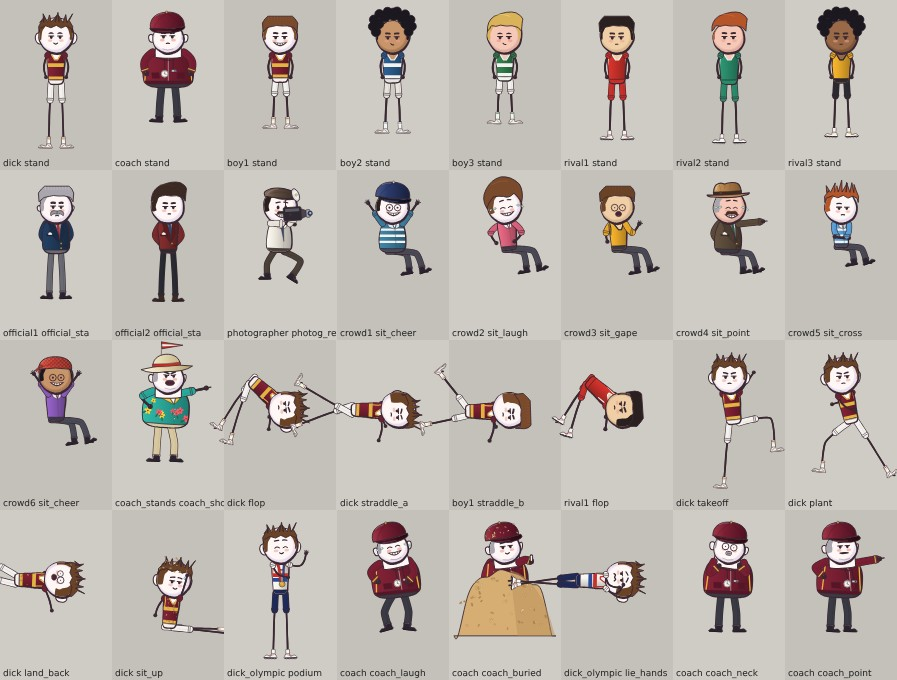
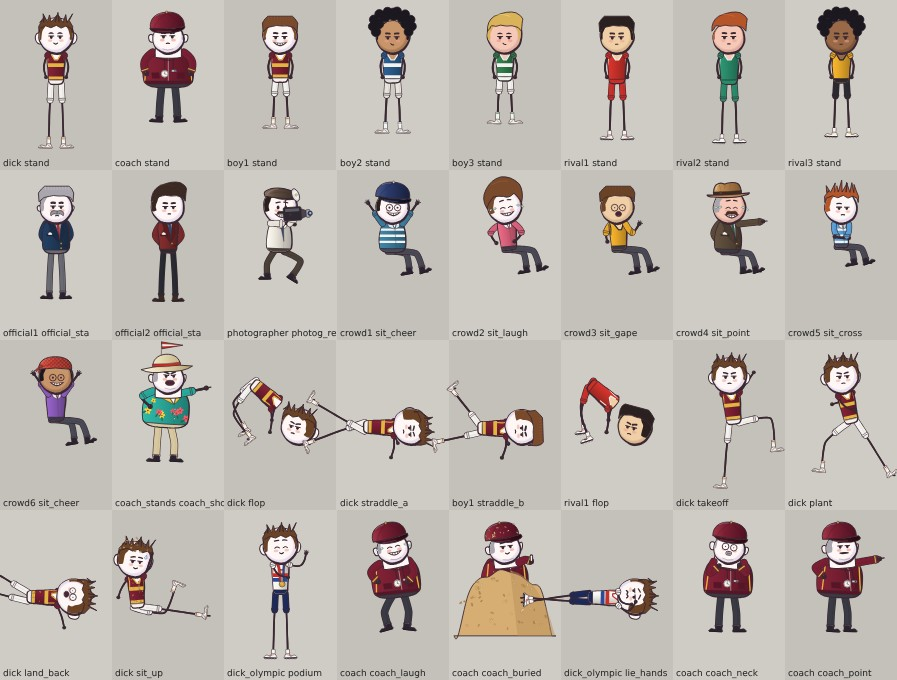
Film 15: cast15 flop arch rework (round 2), set3d15 WIP

diff --git a/film/v3/set3d15/set15.py b/film/v3/set3d15/set15.py
@@ -22,7 +22,7 @@ _B = dict(toon=1.0, form=(0.0, -0.05, 0.22), sun_angle=0.6, exposure=0.0, lift=(
           shade_mix=0.55, crowd_k=1.0, season=0.0, floods=0.0, cx=0.0, cy=0.0)
 _SKY_EVE = [(0.0, '#2a3494'), (0.4, '#5a68c4'), (0.5, '#f2a068'), (0.53, '#e6c0a0'), (0.58, '#a4b8e4'), (0.68, '#4a62c0'), (0.82, '#2a3a9c'), (1.0, '#212a82')]
 LIGHTS = dict(
-    A_GOLDEN=dict(_B, name='A_GOLDEN', loc='A', key=(1.62, 1.16, 0.68), key_dir=kdir(-60, 24), sun_elev=24, sun_angle=0.9, shade=(0.105, 0.10, 0.31), shade_tint=(0.10, 0.095, 0.33), season=1.0,
+    A_GOLDEN=dict(_B, name='A_GOLDEN', loc='A', key=(1.62, 1.16, 0.68), key_dir=kdir(-60, 28), sun_elev=28, sun_angle=0.9, shade=(0.105, 0.10, 0.31), shade_tint=(0.10, 0.095, 0.33), season=1.0,
                   sky=[(0.0, '#7a70e0'), (0.40, '#f2b47a'), (0.5, '#f8cf96'), (0.56, '#d8d0c8'), (0.64, '#8aa0ec'), (0.8, '#5c6ee6'), (1.0, '#4a58d8')], sky_k=1.25, glow=('#ffa860', 0.35, 0.45),
                   hills=[(300, 6, 14, '#a08ac8'), (340, 20, 28, '#8f90d0')], hill_k=0.95),
     A_DAY=dict(_B, name='A_DAY', loc='A', key=(1.72, 1.56, 1.26), key_dir=kdir(-38, 44), sun_elev=44, shade=(0.115, 0.115, 0.34), shade_tint=(0.105, 0.105, 0.35), season=0.0,
@@ -356,3 +356,52 @@ def clear_keys():
     for m in bpy.data.materials:
         if m.node_tree and m.node_tree.animation_data and m.node_tree.animation_data.action: m.node_tree.animation_data.action = None
     for o in STATE.get('stand_bulbs', []): o.hide_render = True
+
+# ============================================================================= placeholder actor cards (stills and tests only)
+def _poly_round_rect(w, h, r, n=6):
+    pts = []
+    for (cx, cy, a0) in ((w / 2 - r, h - r, 0), (-w / 2 + r, h - r, 90), (-w / 2 + r, r, 180), (w / 2 - r, r, 270)):
+        for i in range(n + 1): a = math.radians(a0 + 90 * i / n); pts.append((cx + r * math.cos(a), cy + r * math.sin(a)))
+    return pts
+def _fan(pts):
+    n = len(pts); cx = sum(p[0] for p in pts) / n; cy = sum(p[1] for p in pts) / n
+    V = [(cx, cy)] + pts; Fc = [(0, 1 + i, 1 + (i + 1) % n) for i in range(n)]; return V, Fc
+
+def placeholder_actor(role, mark, face_to=None, name=None, tint=0.58):
+    """Grey rounded silhouette card at real scale (HEIGHT[role] D tall), feet at `mark` (D), turned to face `face_to`. Stills and tests only."""
+    h = HEIGHT.get(role, 2.9); name = name or 'actor_' + role
+    bw = 0.95 if role != 'dick' else 0.8
+    body = _poly_round_rect(bw, h * 0.74, bw * 0.4); hr = 0.30 if role != 'dick' else 0.27
+    hc = (0.0, h - hr); head = [(hc[0] + hr * math.cos(2 * math.pi * i / 16), hc[1] + hr * math.sin(2 * math.pi * i / 16)) for i in range(16)]
+    V3 = []; Fs = []
+    for pts, z0 in ((body, 0.0), (head, 0.0)):
+        V, Fc = _fan(pts); o = len(V3); V3 += [(x, 0.0, y + z0) for x, y in V]; Fs += [tuple(o + i for i in f) for f in Fc]
+    me = bpy.data.meshes.new(name); me.from_pydata(V3, [], Fs); me.update()
+    m = bpy.data.materials.new(name + '_m'); m.use_nodes = True; nt = m.node_tree; nt.nodes.clear(); N = nt.nodes.new; Lk = nt.links.new
+    out = N('ShaderNodeOutputMaterial'); em = N('ShaderNodeEmission'); lp = N('ShaderNodeLightPath')
+    em.inputs['Color'].default_value = (tint, tint, tint * 1.04, 1.0); Lk(lp.outputs['Is Camera Ray'], em.inputs['Strength']); Lk(em.outputs[0], out.inputs['Surface'])
+    me.materials.append(m); ob = bpy.data.objects.new(name, me); bpy.context.scene.collection.objects.link(ob); ob.location = mark; T.no_bounce(ob)
+    if face_to is not None:
+        d = Vector(face_to) - Vector(mark); ob.rotation_euler = (0, 0, math.atan2(d.x, -d.y))
+    return ob
+
+def stage_placeholders(n, cam_loc):
+    T._clear_actors(); out = []
+    import set15_shots as SH
+    for i, (role, p) in enumerate(SH.staging(n)): out.append(placeholder_actor(role, p, face_to=cam_loc, name='actor_%s_%d' % (role, i)))
+    return out
+
+def head_pixels(n, frame=None):
+    """[(role, chin_y_px, head_top_y_px)] at 720x1280 for the placeholders of shot n at the current frame (caption rule: heads above y 880)."""
+    from bpy_extras.object_utils import world_to_camera_view
+    import set15_shots as SH
+    sc = bpy.context.scene; cam = sc.camera; out = []
+    for role, p in SH.staging(n):
+        h = HEIGHT.get(role, 2.9); top = Vector(p) + Vector((0, 0, h)); chin = Vector(p) + Vector((0, 0, h - 0.6))
+        a = world_to_camera_view(sc, cam, top); b = world_to_camera_view(sc, cam, chin); out.append((role, round((1 - b.y) * 1280), round((1 - a.y) * 1280)))
+    return out
+
+try:
+    import set15_shots   # noqa: F401  (fills SHOTS)
+except ImportError:
+    pass

diff --git a/film/v3/cast15/cast15.py b/film/v3/cast15/cast15.py
@@ -732,7 +732,7 @@ def _std_canvas(h):
 
 
 CANVAS15 = {}                  # filled in register() from the measured heights
-CANVAS15_WIDE = (-4.25, -4.5, 4.25, 3.0)        # lying / bridge / straddle / sit / airborne poses (any member); place these by anchors, not by the soles
+CANVAS15_WIDE = (-4.25, -4.5, 4.25, 4.0)        # lying / bridge / straddle / sit / airborne poses (any member); place these by anchors, not by the soles
 
 
 # ============================================================================= pose keys, skin, ears, jaw, mound
@@ -1038,24 +1038,33 @@ def _p_flop_rise(c):
              leg_l=(104, 1.0, 0.3), leg_r=(62, 0.82, 1.0))
 
 
-def _p_flop_head(c):
-    return J(c, lean=96, yaw=-0.55, roll=56, expr="determined", arm_r=(100, 0.95, 0.3), arm_l=(128, 0.95, 0.3, BACK),
-             leg_l=(118, 1.0, -0.3), leg_r=(105, 1.0, -0.2))
+def _arch(c, lean, hdx, hdy, roll, ang, depth, kn=-1, spread=12, **kw):
+    """the flop family: torso tilted up to the hips (apex), head hung below the shoulders (hdx2 / hdy2 move the torso away from the
+    head), face turned toward the feet; thighs go down and out, shins hang (knees bent, kn -1 = knees toward the approach side).
+    depth = how far the feet hang below the hips (D), ang = thigh direction (90 = straight down, 180 = straight back)."""
+    L = P.CAST[c]["leg"]
+    r = min(1.05, depth / (L * max(0.2, math.sin(math.radians(ang)))))
+    p = J(c, lean=lean, yaw=-0.9, roll=roll, hdx=hdx, hdy=hdy, expr="determined", arm_r=(92, 0.95, 0.3), arm_l=(110, 0.95, 0.3, BACK),
+          leg_l=(ang, r, kn), leg_r=(ang - spread, r, kn))
+    p.update(kw)
+    return p
 
 
-def _p_flop_back(c):
-    return J(c, lean=116, yaw=-0.8, roll=72, expr="determined", arm_r=(95, 0.95, 0.3), arm_l=(120, 0.95, 0.3, BACK),
-             leg_l=(122, 1.0, -0.5), leg_r=(108, 1.0, -0.4))
+def _p_flop_head(c):      # head and shoulders already past the bar, hips rising, legs still trailing nearly straight
+    return _arch(c, 106, 0.30, 0.55, 12, 122, 1.8, -0.5, 10)
 
 
-def _p_flop(c):
-    return J(c, lean=132, yaw=-0.9, roll=86, expr="determined", arm_r=(90, 0.95, 0.3), arm_l=(112, 0.95, 0.3, BACK),
-             leg_l=(125, 0.98, -0.6), leg_r=(108, 0.98, -0.5))
+def _p_flop_back(c):      # the arch almost complete, knees starting to bend
+    return _arch(c, 122, 0.30, 0.48, 14, 110, 1.7, -0.7, 10)
 
 
-def _p_flop_flick(c):
-    return J(c, lean=108, yaw=-0.9, roll=82, expr="happy", arm_r=(92, 0.95, 0.3), arm_l=(112, 0.95, 0.3, BACK),
-             leg_l=(-128, 1.05, 0.0), leg_r=(-112, 1.05, 0.0))
+def _p_flop(c):           # THE FLOP: a symmetric upside-down U, belly up
+    return _arch(c, 131, 0.30, 0.42, 15, 100, 1.5, -1, 12)
+
+
+def _p_flop_flick(c):     # legs kicked up and over: jack-knife into an L
+    return J(c, lean=118, yaw=-0.9, roll=14, hdx=0.30, hdy=0.50, expr="happy", arm_r=(94, 0.95, 0.3), arm_l=(112, 0.95, 0.3, BACK),
+             leg_l=(-108, 1.05, 0.0), leg_r=(-92, 1.05, 0.0))
 
 
 def _p_land_back(c):
@@ -1069,8 +1078,8 @@ def _p_lie_back(c):
 
 
 def _p_sit_up(c):
-    return J(c, lean=6, yaw=0.6, roll=8, expr="worried", mouth="smile", pitch=0.3, arm_r=(-72, 1.0, -0.5, TOP), arm_l=(118, 0.8, 0.2, BACK),
-             leg_r=(6, 1.0, 0.3), leg_l=(2, 1.0, 0.3), sawdust=1.0, fx=["sweat"])
+    return J(c, lean=-4, yaw=0.55, roll=7, expr="worried", mouth="smile", pitch=0.35, arm_r=(-70, 1.0, -0.6, TOP), arm_l=(118, 0.85, 0.2, BACK),
+             leg_r=(8, 1.0, 0.3), leg_l=(-30, 0.78, -1.0), sawdust=1.0, fx=["sweat"])
 
 
 def _p_straddle_a(c):
@@ -1203,9 +1212,9 @@ def _p_coach_sigh(c):
     return J(c, lean=7, yaw=0.35, pitch=0.8, hdy=0.04, expr="sad", mouth="frown", arm_r=dict(preset="chin"), arm_l=(98, 0.75, 0.3, BACK))
 
 
-def _p_coach_clumsy_flop(c):
-    return J(c, lean=102, yaw=-0.7, roll=48, expr="shocked", mouth="o", arm_r=(-40, 1.05, -0.5), arm_l=(150, 1.05, 0.5, BACK),
-             leg_r=(-62, 1.0, 1.0), leg_l=(160, 1.0, -1.0))
+def _p_coach_clumsy_flop(c):   # a sagging, badly arched backwards flop: low hips, flailing arms, legs everywhere
+    return J(c, lean=118, yaw=-0.8, roll=30, hdx=0.30, hdy=0.30, expr="shocked", mouth="o", arm_r=(-50, 1.05, -0.5), arm_l=(-155, 1.05, 0.5, BACK),
+             leg_r=(-40, 1.0, -0.3), leg_l=(112, 0.80, -1.0))
 
 
 def _p_coach_buried(c):

diff --git a/film/v3/set3d15/set15_a.py b/film/v3/set3d15/set15_a.py
@@ -71,8 +71,8 @@ def build_a(P, M, dress=True):
     S.ring(mb, M['cinder'], CX, CY, 47, 47, 53, 53, 0, 180, 0.012, 1.0)
     for r in (47.0, 52.85): S.ring(mb, M['chalk'], CX, CY, r, r, r + 0.15, r + 0.15, 0, 180, 0.02, 1.0)
     for r in (49.0, 50.9): S.ring(mb, M['chalk'], CX, CY, r, r, r + 0.07, r + 0.07, 0, 180, 0.018, 1.0)
-    S.disc(mb, M['dirt'], (1.4, 1.6), 4.8, 0.008, 40, 6.6)         # worn run-up
-    S.disc(mb, M['dirt'], (6.3, -2.0), 2.4, 0.007, 24, 3.0)
+    S.disc(mb, M['dirt'], (1.4, 2.4), 3.0, 0.008, 40, 4.4)         # worn run-up
+    S.disc(mb, M['dirt'], (6.0, -2.2), 1.5, 0.007, 24, 2.2); S.disc(mb, M['dirt'], (-6.0, 1.8), 1.4, 0.007, 24, 2.4); S.disc(mb, M['dirt'], (8.2, -1.0), 1.1, 0.007, 20, 1.6)
     for (x, y, w) in [(-3.0, 9.8, 14), (-8.0, 3.0, 5), (9.0, 14.0, 9)]:   # lighter mown patches
         mb.box(M['lawn'], (x, y, 0.004), (w, w * 0.5, 0.004), rz=0.2)
     # asphalt road behind the fence with curb
@@ -164,18 +164,21 @@ def build_a(P, M, dress=True):
         PR.car60(mb, M, (x, 28.4 if yw < 1 else 31.7, 0.0), yw, col, two)
     fin(mb)
     # --- gym (brick) closer, and a long school wing; trees in front
-    mb = S.MB('gymA'); gx, gy = 18.0, 47.0
-    mb.box(M['brick'], (gx, gy, 3.8), (52, 12, 7.6)); mb.box(M['trim'], (gx, gy - 6.05, 7.7), (52.4, 0.5, 0.5)); mb.box(M['roofd'], (gx, gy, 7.95), (52.2, 12.2, 0.4))
-    mb.box(M['brick'], (gx - 32, gy - 5, 2.6), (16, 9, 5.2)); mb.box(M['roofd'], (gx - 32, gy - 5, 5.35), (16.4, 9.4, 0.3))
-    for i in range(16):
-        wx = gx - 23 + i * 3.1; mb.box(M['trim'], (wx, gy - 6.06, 4.7), (1.5, 0.12, 1.95)); mb.box(M['glass'] if i % 3 else M['glasslit'], (wx, gy - 6.12, 4.7), (1.3, 0.1, 1.75))
-        mb.box(M['trim'], (wx, gy - 6.1, 1.9), (1.5, 0.1, 1.3)) if i % 4 == 1 else None
-    for dxx in (-4, 6): mb.box(M['dark'], (gx + dxx, gy - 6.08, 1.4), (3.0, 0.12, 2.8)); mb.box(M['trim'], (gx + dxx, gy - 6.12, 2.9), (3.6, 0.2, 0.3))
-    for i in range(4): mb.box(M['glass'], (gx - 38 + i * 3.8, gy - 9.5, 2.7), (1.7, 0.1, 1.5)); mb.box(M['trim'], (gx - 38 + i * 3.8, gy - 9.47, 3.6), (2.0, 0.1, 0.2))
-    mb.box(M['brick'], (gx + 8, gy - 6.5, 9.4), (1.6, 1.6, 3.2)); mb.box(M['trim'], (gx + 8, gy - 6.5, 11.1), (2.0, 2.0, 0.3))     # chimney
+    mb = S.MB('gymA'); gx, gy = 16.0, 45.0; GH = 12.0
+    mb.box(M['brick'], (gx, gy, GH / 2), (56, 12, GH)); mb.box(M['trim'], (gx, gy - 6.05, GH + 0.1), (56.4, 0.5, 0.5)); mb.box(M['roofd'], (gx, gy, GH + 0.35), (56.2, 12.2, 0.4))
+    mb.box(M['trim'], (gx, gy - 6.06, 5.9), (56.2, 0.15, 0.3))
+    mb.box(M['brick'], (gx - 36, gy - 5, 4.2), (16, 9, 8.4)); mb.box(M['roofd'], (gx - 36, gy - 5, 8.55), (16.4, 9.4, 0.3))
+    for i in range(17):
+        wx = gx - 25 + i * 3.1
+        for zz in (3.3, 8.6):
+            mb.box(M['trim'], (wx, gy - 6.06, zz), (1.5, 0.12, 2.1)); mb.box(M['glass'] if (i + int(zz)) % 3 else M['glasslit'], (wx, gy - 6.12, zz), (1.3, 0.1, 1.9))
+    for dxx in (-4, 6): mb.box(M['dark'], (gx + dxx, gy - 6.08, 1.5), (3.0, 0.12, 3.0)); mb.box(M['trim'], (gx + dxx, gy - 6.12, 3.1), (3.6, 0.2, 0.3))
+    for i in range(4):
+        for zz in (2.8, 6.0): mb.box(M['glass'], (gx - 42 + i * 3.8, gy - 9.5, zz), (1.7, 0.1, 1.6)); mb.box(M['trim'], (gx - 42 + i * 3.8, gy - 9.47, zz + 0.95), (2.0, 0.1, 0.2))
+    mb.box(M['brick'], (gx + 10, gy - 6.5, GH + 3.0), (1.8, 1.8, 5.6)); mb.box(M['trim'], (gx + 10, gy - 6.5, GH + 5.9), (2.2, 2.2, 0.3))
     fin(mb)
     mb = S.MB('treesA')
-    for (x0, x1, y0, y1, n, hs) in [(-18, -8, 31, 42, 8, (8, 11)), (-3, 8, 40, 46, 5, (8, 11)), (-60, -20, 30, 46, 22, (8, 11)), (-60, -17, 52, 72, 26, (14, 20)), (32, 70, 28, 60, 40, (12, 20)), (-40, 70, 72, 110, 70, (12, 20))]:
+    for (x0, x1, y0, y1, n, hs) in [(-18, -8, 33, 44, 8, (9, 13)), (-3, 8, 52, 58, 6, (14, 22)), (-60, -20, 34, 50, 22, (10, 16)), (-60, -17, 56, 76, 26, (20, 32)), (28, 70, 30, 60, 40, (16, 28)), (-40, 70, 62, 110, 70, (22, 34)), (4, 28, 52, 60, 10, (18, 26))]:
         for i in range(n): S.pine(mb, M, rr.uniform(x0, x1), rr.uniform(y0, y1), rr.uniform(*hs), 400 + i + int(x0))
     for (x0, x1, y0, y1, n) in [(-20, -2, 34, 40, 8), (20, 50, 32, 38, 10), (-52, -24, 34, 46, 8), (36, 6, 36, 40, 0)]:
         for i in range(n): maple(mb, M, rr.uniform(x0, x1), rr.uniform(y0, y1), rr.uniform(8, 12), 700 + i)

diff --git a/film/v3/cast15/test_cast15.py b/film/v3/cast15/test_cast15.py
@@ -117,8 +117,10 @@ def sec_poses(D=70):
         x0, y0 = cc * cw * D, r * ch * D
         o.append('<rect x="%.0f" y="%.0f" width="%.0f" height="%.0f" fill="%s"/>' % (x0, y0, cw * D, ch * D, BG if (r + cc) % 2 else BG2))
         hx, hy = x0 + cw * D * 0.5, y0 + ch * D * 0.28
-        if n.startswith(("flop", "lie", "land", "straddle", "knock")):
+        if n.startswith(("flop", "lie", "land", "straddle", "knock", "coach_clumsy")):
             hx, hy = x0 + cw * D * 0.62, y0 + ch * D * 0.45
+        elif n.startswith("sit_up") or n == "sit_thumb":
+            hx, hy = x0 + cw * D * 0.3, y0 + ch * D * 0.3
         s, f = _place(c, p, "p%d" % i, D, hx, hy)
         o.append(s)
         a = f["anchors"]
@@ -155,6 +157,29 @@ def sec_compare(D=100):
         o.append(_under(x + 1.1 * D, 8.1 * D, "%s %s" % (c, n if c != "coach" else "coach_clumsy_flop"), 12))
         x += 2.3 * D
     return _write(_svgdoc(W, H, "".join(o)), W, H, "sec_compare")
+
+
+def build_strip(D=90):
+    """flop_strip.jpg: the four flop stages side by side (dick above, rival1 below), bar line at anchors["bar"] of the apex stage."""
+    from PIL import Image
+    stages = ["flop_head", "flop_back", "flop", "flop_flick"]
+    cw, ch = 4.0, 4.2
+    W, H = int(cw * D * 4), int(ch * D * 2)
+    o = ['<rect width="%d" height="%d" fill="%s"/>' % (W, H, BG)]
+    for r, c in enumerate(("dick", "rival1")):
+        fa = P.figure(c, cast15.pose_for("flop", c), "ref")
+        for i, n in enumerate(stages):
+            x0, y0 = i * cw * D, r * ch * D
+            o.append('<rect x="%.0f" y="%.0f" width="%.0f" height="%.0f" fill="%s"/>' % (x0, y0, cw * D, ch * D, BG if (i + r) % 2 else BG2))
+            hx, hy = x0 + cw * D * 0.68, y0 + ch * D * 0.62
+            s, f = _place(c, cast15.pose_for(n, c), "s%d%d" % (r, i), D, hx, hy)
+            o.append(s)
+            by = hy + fa["anchors"]["bar"][1] * D
+            o.append('<line x1="%.1f" y1="%.1f" x2="%.1f" y2="%.1f" stroke="#e03030" stroke-width="3" opacity="0.85"/>' % (x0 + 10, by, x0 + cw * D - 10, by))
+            o.append(_under(x0 + cw * D / 2, y0 + ch * D - 8, "%d  %s (%s)" % (i + 1, n, c), 15))
+    p = _write(_svgdoc(W, H, "".join(o)), W, H, "sec_strip")
+    Image.open(p).convert("RGB").save(os.path.join(HERE, "flop_strip.jpg"), quality=90)
+    print("wrote flop_strip.jpg", (W, H))
 
 
 def sec_runs(D=80):
@@ -247,8 +272,8 @@ def sec_phone(D=34):
         p = cast15.pose_for(n, c) if n in cast15.POSE_FUNCS else dict(expr="neutral", yaw=0.3)
         if n == "stand":
             p = dict(expr="neutral", yaw=0.0)
-        lying = n.startswith(("flop", "straddle", "land", "lie", "sit_up"))
-        hx, hy = (x0 + cw * 0.55, y0 + ch * 0.42) if lying else (x0 + cw * 0.5, y0 + ch * 0.22)
+        lying = n.startswith(("flop", "straddle", "land", "lie"))
+        hx, hy = (x0 + cw * 0.66, y0 + ch * 0.52) if lying else ((x0 + cw * 0.2, y0 + ch * 0.3) if n == "sit_up" else (x0 + cw * 0.5, y0 + ch * 0.22))
         s, f = _place(c, p, "ph%d" % i, D, hx, hy)
         o.append(s)
         o.append('<text x="%.0f" y="%.0f" font-family="DejaVu Sans, sans-serif" font-size="9" fill="#222">%s</text>' % (x0 + 3, y0 + ch - 4, (c + " " + n)[:22]))
@@ -277,6 +302,7 @@ def build_sheet():
     out = os.path.join(HERE, "sheet.jpg")
     sheet.save(out, quality=88)
     print("wrote", out, sheet.size)
+    build_strip()
     ph = Image.open(sec_phone()).convert("RGB")
     ph.save(os.path.join(HERE, "sheet_phone.jpg"), quality=90)
     print("wrote sheet_phone.jpg", ph.size)

diff --git a/film/v3/set3d15/set15_shots.py b/film/v3/set3d15/set15_shots.py
@@ -38,11 +38,11 @@ shot(7, 11.45, 13.25, A, 'GOLDEN', ((-3.8, 0.0, 1.2), (0.5, 5.6, 1.3)), [('coole
 shot(8, 13.25, 14.15, A, 'GOLDEN', ((-1.9, 4.0, 0.95), (-0.5, 7.4, 0.8)), [('sawdust_edge', 0.9, -0.45, 0.0)], [('dick', 'landing')], 'close-medium; bar bounces, Dick sits up sheepish', push=6, slide=40)
 shot(9, 14.15, 16.30, A, 'GOLDEN', ((-4.2, 0.6, 3.7), (0.0, 5.3, 1.2)), [('bar_end', 0.9, 0.55, 0.0)], [('dick', 'takeoff'), ('boy', 'boy_wait_a')], 'high angle orbit 15 deg/s; clean flop', orbit=15)
 shot(10, 16.30, 18.80, A, 'GOLDEN', ((6.3, -0.4, 1.5), (10.4, 2.6, 1.55)), [('clipboard', 0.9, -0.3, 0.2)], [('coach', 'coach_bleacher')], 'medium on the coach; belly bounce', push=8)
-shot(11, 18.80, 20.70, A, 'GOLDEN', ((11.7, 3.6, 1.75), (5.0, -0.4, 1.4)), [('shoulder', 0.8, 0.5, 0.0)], [('coach', 'coach_bleacher'), ('dick', 'dick_mark'), ('boy', 'boy_wait_a'), ('boy', 'boy_wait_b')], 'over-shoulder of the coach onto Dick', slide=40)
+shot(11, 18.80, 20.70, A, 'GOLDEN', ((10.9, 3.5, 1.8), (5.0, -0.4, 1.4)), [('shoulder', 0.8, 0.5, 0.0)], [('coach', 'coach_bleacher'), ('dick', 'dick_mark'), ('boy', 'boy_wait_a'), ('boy', 'boy_wait_b')], 'over-shoulder of the coach onto Dick', slide=40)
 shot(12, 20.70, 23.60, A, 'GOLDEN', ((7.0, 1.0, 1.55), (10.4, 2.6, 1.6)), [('stopwatch', 0.8, 0.25, -0.2)], [('coach', 'coach_bleacher')], 'medium-close, finger wag', push=8, punch=(23.0, 20))
-shot(13, 23.60, 25.40, A, 'GOLDEN', ((-6.6, 2.2, 0.5), (-0.3, 6.4, 1.3)), [('camera_bag', 0.9, 0.4, 0.5)], [('photographer', 'photographer'), ('dick', 'landing')], 'low wide by the pit; FLASH at 24.6', slide=40, push=6)
+shot(13, 23.60, 25.40, A, 'GOLDEN', ((-7.6, 1.2, 0.6), (-0.3, 6.4, 1.2)), [('camera_bag', 0.9, 0.4, 0.5)], [('photographer', 'photographer'), ('dick', 'landing')], 'low wide by the pit; FLASH at 24.6', slide=40, push=6)
 shot(14, 25.40, 27.95, A, 'GOLDEN', ((10.7, 3.0, 1.55), (12.6, 4.4, 1.2)), [('thumb', 0.7, 0.3, -0.2)], [('reader', 'reader')], 'newspaper insert on the bleacher', push=10, slide=30)
-shot(15, 27.95, 28.73, A, 'GOLDEN', ((8.8, 0.6, 1.15), (4.2, 2.6, 1.6)), [('rail', 0.9, -0.1, 0.0)], [('coach', 'coach_bleacher'), ('boy', 'boy_wait_a'), ('boy', 'boy_wait_b'), ('dick', 'takeoff')], 'PUSH! snap; everyone points and laughs', push=25)
+shot(15, 27.95, 28.73, A, 'GOLDEN', ((7.6, -0.9, 1.2), (3.8, 2.8, 1.6)), [('rail', 0.9, -0.1, 0.0)], [('coach', 'coach_bleacher'), ('boy', 'boy_wait_a'), ('boy', 'boy_wait_b'), ('dick', 'takeoff')], 'PUSH! snap; everyone points and laughs', push=25)
 shot(16, 28.73, 31.05, A, 'GOLDEN', ((-4.6, 2.2, 1.5), (0.4, 5.4, 1.5)), [('hurdle_stack', 1.0, -0.4, 0.4)], [('dick', 'takeoff'), ('boy', 'boy_c')], 'orbit + push; training; GOLDEN -> DAY (render both lights)', trans='DIS', orbit=10, push=6)
 shot(34, 64.62, 66.25, A, 'GOLDEN', ((-0.6, -1.8, 1.3), (-4.4, 5.0, 1.45)), [('bench_end', 0.9, -0.4, 0.4)], [('coach', 'coach_end'), ('boy', 'boys_bench_a'), ('boy', 'boys_bench_b'), ('boy', 'boys_bench_c')], 'back at the school track; coach at the sawdust pit, boys on the bench', trans='DIS', push=8)
 shot(35, 66.25, 68.00, A, 'GOLDEN', ((-0.8, -2.6, 1.2), (6.0, -3.0, 1.1)), [('hurdle', 0.9, 0.4, 0.8)], [('coach', 'runup_start'), ('boy', 'boys_bench_a')], 'WHIP follow; the coach runs the curve', end=((-0.8, -2.6, 1.2), (0.0, 5.0, 1.3)), whip=True)

diff --git a/film/v3/set3d15/run15.py b/film/v3/set3d15/run15.py
@@ -1,0 +1,35 @@
+#!/usr/bin/env python3
+"""run15.py : CLI. python3 run15.py stills [shots] | final [shots] | contact   (shots: 1,2,5-9 ...). Output in work/."""
+import os, sys, time, json
+sys.path.insert(0, os.path.dirname(os.path.abspath(__file__)))
+import bpy
+import set15 as F
+import set15_shots as SH
+HERE = F.HERE; WORK = F.WORK
+def parse(a):
+    out = []
+    for tok in a.split(','):
+        if '-' in tok: x, y = tok.split('-'); out += list(range(int(x), int(y) + 1))
+        elif tok: out.append(int(tok))
+    return out
+def render_shot(n, quality='final', outdir=None, actors=True, light=None, which='a'):
+    sd = F.SHOTS[n]; lt = light or sd['light']
+    if (F.STATE.get('loc'), F.STATE.get('light')) != (sd['loc'], lt) or True:
+        A = F.build(sd['loc'], lt)
+    sc = bpy.context.scene; F.setup_render(sc, quality)
+    cam = SH.setup_shot(n)
+    F.crowd_mode(sd.get('crowd', 'hush' if 24 <= n <= 30 else 'normal')) if sd['loc'] == 'B' else None
+    sc.frame_set(int(round(sd['t0'] * 30)) if which == 'a' else int(round(sd['t1'] * 30)))
+    if actors: F.stage_placeholders(n, tuple(cam.location))
+    bpy.context.view_layer.update(); hp = F.head_pixels(n)
+    outdir = outdir or os.path.join(WORK, 'final' if quality == 'final' else 'stills'); os.makedirs(outdir, exist_ok=True)
+    path = os.path.join(outdir, 'shot%02d_%s_%s.png' % (n, sd['loc'], lt)); w, c = F.T.render(path)
+    return path, w, c, hp
+if __name__ == '__main__':
+    cmd = sys.argv[1] if len(sys.argv) > 1 else 'help'; shots = parse(sys.argv[2]) if len(sys.argv) > 2 else sorted(F.SHOTS)
+    if cmd in ('stills', 'final'):
+        log = []
+        for n in shots:
+            p, w, c, hp = render_shot(n, 'final' if cmd == 'final' else 'preview')
+            print('%s shot %d: %.1f s wall, %.1f s cpu, heads %s' % (cmd, n, w, c, hp), flush=True); log.append((n, w, c, hp))
+    else: print(__doc__)

diff --git a/film/v3/set3d15/work/sheet.py b/film/v3/set3d15/work/sheet.py
@@ -1,0 +1,10 @@
+import sys, glob, os
+from PIL import Image, ImageDraw
+d = '/home/user/github-commit-quest-v2/film/v3/set3d15/work/stills/'
+ns = [int(x) for x in sys.argv[2].split(',')]; out = sys.argv[1]
+ims = []
+for n in ns:
+    f = glob.glob(d + 'shot%02d_*.png' % n)[0]; im = Image.open(f).convert('RGB').resize((300, 533)); dr = ImageDraw.Draw(im); dr.text((6, 4), str(n), fill=(255, 255, 255)); dr.line([(0, 366), (300, 366)], fill=(0, 230, 255)); ims.append(im)
+S = Image.new('RGB', (300 * len(ims), 533))
+for i, im in enumerate(ims): S.paste(im, (300 * i, 0))
+S.save(out)

diff --git a/film/v3/cast15/API.md b/film/v3/cast15/API.md
@@ -63,7 +63,7 @@ New anchors on every cast15 figure: **`apex`** (the hip joint, the highest point
 
 ### Where the bar goes in the flop (card coordinates, D, head centre = origin, y down)
 
-`flop` (dick, facing right): head at (0, 0), `apex` (hips) about (-1.01, -0.91), **`bar` about (-0.98, -0.64)**, feet about (-1.7..-2.0, 0.5..0.9). So the crossbar is a horizontal line y = `anchors["bar"][1]`, 0.27 D under the apex and 0.64 D above the head centre: the **head is 0.64 D below the bar on one side and the feet 1.1..1.5 D below it on the other**. For a left-facing flop (`facing=-1`) x is negated. Anchors come back already mirrored. For other members the offset scales with torso length (read the anchor, do not hard-code). `flop_back` puts the bar at the shoulder/mid-back, `flop_head` has the bar near the neck/shoulders (the body is nearly horizontal), `flop_flick` has the hips already dropping and the legs kicked up above the bar line.
+`flop` (dick, facing right; rival1 and boy2 within 0.03): head centre at (0, 0), `apex` (hips) at **(-1.33, -1.31)**, **`bar` at (-1.30, -1.04)** (0.27 D under the apex, on the underside of the lower back), `foot_l` (-1.51, 0.09). So the crossbar is the horizontal line y = `anchors["bar"][1]`: the head centre hangs **1.04 D below the bar** on the right and the feet about 1.1 D below it on the left, an upside-down U about 1.5 D wide. For a left-facing flop (`facing=-1`) x is negated; anchors come back already mirrored. Stages (dick): `flop_head` apex (-1.61, -0.92) bar (-1.47, -0.69), feet at y 0.5 (hips still rising, legs trailing straight); `flop_back` apex (-1.45, -1.20) bar (-1.38, -0.94); `flop` apex (-1.33, -1.31) bar (-1.30, -1.04); `flop_flick` apex (-1.50, -1.14) bar (-1.41, -0.88), feet far above at y -3.0 (the legs kicked up, the body an L). Read the anchor, do not hard-code it: it scales a little with torso length.
 
 ## Pose presets (`cast15.POSE_NAMES`; `pose_for(name, cast, facing=1, **overrides)`)
 
@@ -76,13 +76,13 @@ All are authored for a figure travelling or facing screen-RIGHT (`facing=-1` tog
 | `plant` | jumpers | last stride, planted forward foot, leaning away from the bar |
 | `takeoff` | jumpers | drive leg straight, **knee lifted**, arms thrown up |
 | `flop_rise` | jumpers | leaving the ground, turning the back to the bar (lean +48, yaw -0.1) |
-| `flop_head` | jumpers | head over (lean +96): body nearly horizontal, legs trailing down |
-| `flop_back` | jumpers | back over (lean +116) |
-| `flop` | jumpers | **THE FLOP**: arched bridge, belly up, hips at the apex, head and legs hang lower, arms at the sides, face up (lean +132). `bar` anchor under the lower back |
-| `flop_flick` | jumpers | legs flick up and over (lean +108, legs pointing up and back) |
+| `flop_head` | jumpers | head and shoulders already past the bar (hanging low), hips rising, legs trailing nearly straight |
+| `flop_back` | jumpers | the arch almost complete, knees starting to bend |
+| `flop` | jumpers | **THE FLOP**: a symmetric upside-down U, belly up: torso tilted up to the hips (apex), head hung below the shoulders looking toward the feet, thighs down and out with the shins hanging (knees bent), arms down along the body. Built by `cast15._arch(...)` from `body_lean` 131 + `hdx2`/`hdy2` (torso offset from the head) + polar legs |
+| `flop_flick` | jumpers | legs kicked up and over: jack-knife into an L (legs near vertical above the hips) |
 | `land_back` | jumpers | landing on the back, legs up, startled (`sawdust` 0.5) |
 | `lie_back` | jumpers | lying flat on the back |
-| `sit_up` | jumpers | sitting up on the sawdust, sheepish (worried eyes, small smile, sweat), hand scratching his head, `sawdust=1` |
+| `sit_up` | jumpers | seated, torso upright, one leg flat out in front and the other knee up, sheepish (worried eyes, small smile, sweat), hand scratching the back of his head, `sawdust=1` |
 | `straddle_a`, `straddle_b` | jumpers | **STRADDLE roll**: body flat and horizontal, **face down**, arms hanging below, one leg swinging up over (a: leg up front, b: the other leg swinging over) |
 | `knock` | jumpers | bar knocked: tumbling flail, arms and legs wide, shocked "O" |
 | `lie_hands_face` | jumpers | lying on the mat, hands on the face, sad |
@@ -101,7 +101,7 @@ All are authored for a figure travelling or facing screen-RIGHT (`facing=-1` tog
 | `coach_jaw` | coach, coach_stands | jaw dropped (held open mouth) |
 | `coach_sigh` | coach | sigh: head down, shoulders low, hand to chin, sad |
 | (cycle) `coach_clumsy_run(phase, cast, facing)` | coach | clumsy run: heavy forward lean, flapping arms, wobbling head |
-| `coach_clumsy_flop` | coach | clumsy flop: badly arched (lean +102), limbs flailing, shocked |
+| `coach_clumsy_flop` | coach | sagging, badly arched backwards flop: low hips, head dropped, arms flailing, shocked |
 | `coach_buried` | coach | in the sawdust: `buried=1` mound, `sawdust=1`, weak thumbs-up (`thumb_r`), worried small smile |
 | `clip` | coach | holding the clipboard |
 | `photog_ready` | photographer | crouched, press camera at the eye |
@@ -114,7 +114,7 @@ Props: `clipboard` (`prop_r={"type": "clipboard", "angle": 0}`, anchor `board_r`
 
 ## Canvases (feet-relative, D)
 
-Standing and seated poses: `cast15.CANVAS15[name]` (registered into `sprites.DEFAULT_CANVAS` through `cast_ext.CANVAS`), +-2.125 wide, 0.75 D of head room over the figure (dick (-2.125, -4.5, 2.125, 0.125)). **Lying, bridge, straddle, airborne and buried poses:** use `cast15.CANVAS15_WIDE = (-4.25, -4.5, 4.25, 3.0)` and place the card by `anchors["head"]` / `["apex"]` / `["bar"]`, not by the soles (`feet_y` is just the lowest sole there). `python3 test_cast15.py canvas` runs every member x every preset x both facings x 16 run phases against the wide canvas: 0 outside.
+Standing and seated poses: `cast15.CANVAS15[name]` (registered into `sprites.DEFAULT_CANVAS` through `cast_ext.CANVAS`), +-2.125 wide, 0.75 D of head room over the figure (dick (-2.125, -4.5, 2.125, 0.125)). **Lying, bridge, straddle, airborne and buried poses:** use `cast15.CANVAS15_WIDE = (-4.25, -4.5, 4.25, 4.0)` and place the card by `anchors["head"]` / `["apex"]` / `["bar"]`, not by the soles (`feet_y` is just the lowest sole there). `python3 test_cast15.py canvas` runs every member x every preset x both facings x 16 run phases against the wide canvas: 0 outside.
 
 ## Gotchas
 
@@ -132,5 +132,5 @@ Standing and seated poses: `cast15.CANVAS15[name]` (registered into `sprites.DEF
 
 ## Files and QA
 
-- `cast15.py` is the module, `test_cast15.py` the QA, `sheet.jpg` the labelled sheet (heights front + 3/4, flop sequence above straddle with the bar line, every preset with the `bar` (red) and `apex` (green) anchors, cycles, props, six face states per member) and `sheet_phone.jpg` the phone-scale sheet (head D = 34 px).
+- `cast15.py` is the module, `test_cast15.py` the QA, `flop_strip.jpg` the four flop stages side by side (dick above, rival1 below, red line = bar anchor), `sheet.jpg` the labelled sheet (heights front + 3/4, flop sequence above straddle with the bar line, every preset with the `bar` (red) and `apex` (green) anchors, cycles, props, six face states per member) and `sheet_phone.jpg` the phone-scale sheet (head D = 34 px).
 - `python3 test_cast15.py` = sheet + canvas + robust; `sheet`, `canvas`, `robust` separately. Robust: 2376 garbage-key / determinism checks (0 failed) plus the cast10 byte-identity regression (identical).
